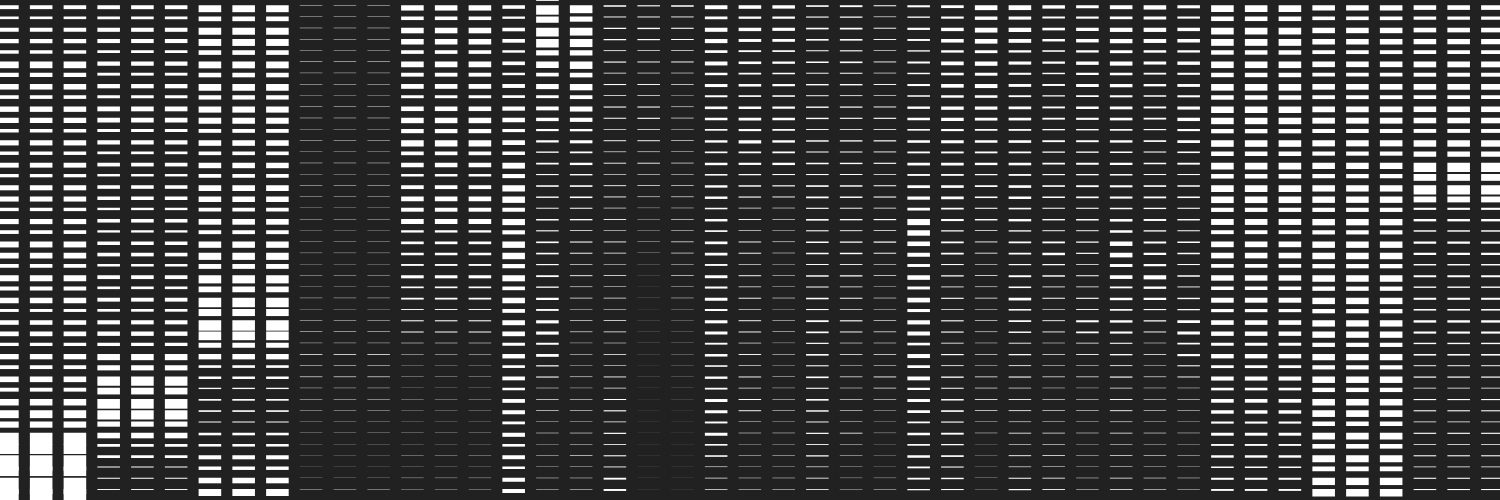
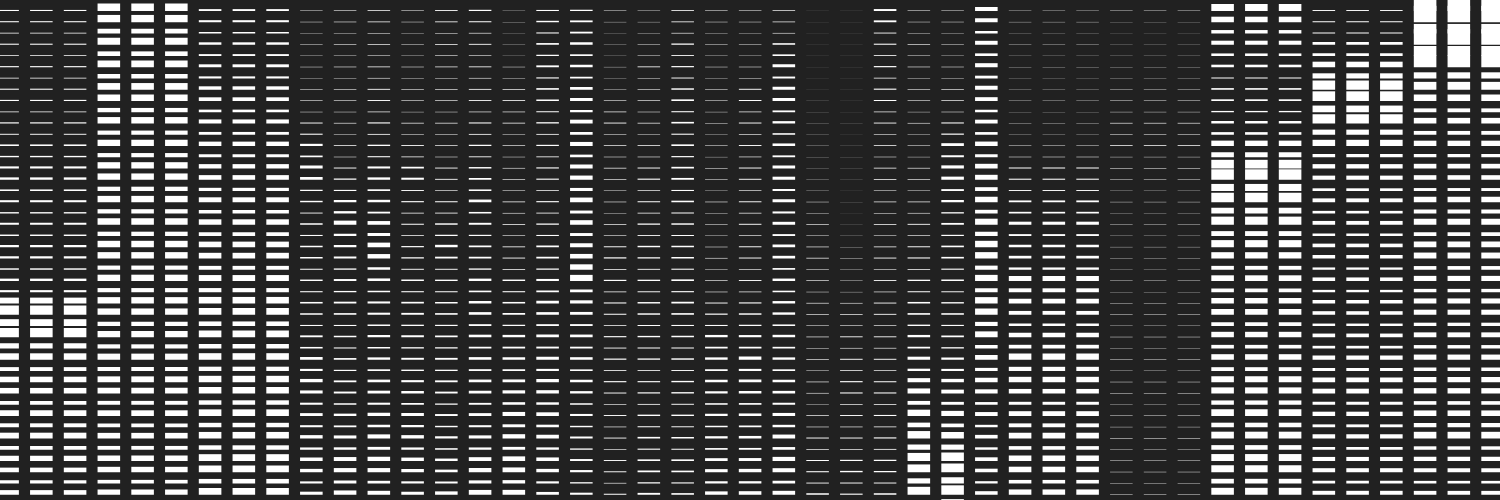
preparing PAOM post

Changed region(s): [[0.0, 0.0, 1.0, 1.0]]

diff --git a/_posts/2015-07-01-witches-coven-magazine-print-all-over-me.md b/_posts/2015-07-01-witches-coven-magazine-print-all-over-me.md
@@ -4,21 +4,6 @@ cat:        projects
 title:      "Collab: WITCHES / The Coven Magazine ✕ Print All Over Me"
 path:       witches-coven-magazine-print-all-over-me
 images:
-  - src:    post-02X_imgs/I01_01.png
-    class:  post-img
-    width:  750
-    height: 250
-    cap:    "Issue 01 / Image"
-  - src:    post-02X_imgs/I01_02.png
-    class:  post-img
-    width:  750
-    height: 250
-    cap:    "Issue 02 / Image"
-  - src:    post-02X_imgs/I01_03.png
-    class:  post-img
-    width:  750
-    height: 250
-    cap:    "Issue 03 / Image"
   - src:    post-02X_imgs/T02_01.png
     class:  post-img
     width:  750
@@ -34,28 +19,34 @@ images:
     width:  750
     height: 250
     cap:    "Issue 03 / Text"
+  - src:    post-02X_imgs/I01_03.png
+    class:  post-img
+    width:  750
+    height: 250
+    cap:    "Issue 03 / Image"
+  - src:    post-02X_imgs/I01_02.png
+    class:  post-img
+    width:  750
+    height: 250
+    cap:    "Issue 02 / Image"
+  - src:    post-02X_imgs/I01_01.png
+    class:  post-img
+    width:  750
+    height: 250
+    cap:    "Issue 01 / Image"
   - src:    post-02X_imgs/garments_01.png
     class:  post-img
     width:  750
     height: 250
-    cap:    "<a href=''>RGB-1 T-shirt</a>, <a href=''>RGB-3 Block top</a>, <a href=''>RGB-2 Duffle bag</a>, <a href=''>TXT-1 Backpack</a>, <a href=''>TXT-3 Raincoat</a>"
-  - src:    post-02X_imgs/garments_02.png
-    class:  post-img
-    width:  750
-    height: 250
+    cap:    "<a href=''>RGB-1 T-shirt</a>, <a href=''>RGB-3 Block top</a>"
 tags:
   - static
   - text
   - collaboration
 published:  false
 ---
-I worked with [WITCHES / The Coven Magazine](http://www.witchesofbushwick.com/) to create six data-driven patterns for a collaborative collection with [Print All Over Me](printallover.me). The patterns are driven by text and image data scraped from the first three issues of The Coven Magazine. View the full collection [here](printallover.me). Read more about the methodology behind each pattern below.
+A collaboration with [WITCHES / The Coven Magazine](http://www.witchesofbushwick.com/) to create six data-driven patterns for a collection with [Print All Over Me](printallover.me). Each one is generated using text and image data scraped from the first three issues of The Coven Magazine. View the full collection [here](printallover.me). 
 
-*Image*
+Patterns RGB-1, RGB-2, and RGB-3 map the normalized red, green, and blue pixel values of every image in each issue along a vertical continuum. Each column of cells encodes the percentage of pixels of a given channel as distributed across the 0-255 range.
 
-This pattern represents an analysis of the RGB color space of every image in an issue. By mapping the normalized red, green, and blue pixel values of each photograph along a vertical continuum, the pattern forms a spectral profile representing the color distribution of pixels across a range of possible values. Each vertical group of cells encodes the percentage of pixels of a given channel as distributed across the 0-255 range. 
-
-
-*Text*
-
-This pattern represents the relative frequency and position of every alphabetic character in an issue. Comprised of cells in horizontal groups of four, it maps local and global occurrences of each letter to the individual pages on which they appear, generating a linear textual blueprint that supplants linguistic referentiality. The background of each cell in each group encodes the relative frequency of a given letter in comparison to the number of times it appears throughout the whole issue. The position of the smaller, solid square in each cell marks the relative frequency of the letter in each quadrant of the page in comparison to its total appearances on that page. 
+Patterns TXT-1, TXT-2, and TXT-3 represent the relative frequency and position of the alphabetic characters in each issue. Comprised of cells in horizontal groups of four, each pattern maps local and global occurrences of every letter to the individual pages on which they appear, generating a linear textual blueprint that supplants linguistic referentiality. The background of each cell in each group encodes the relative frequency of a given letter in comparison to the number of times it appears throughout the whole issue. The position of the smaller, solid square in each cell marks the relative frequency of the letter in each quadrant of the page in comparison to its total appearances on that page. 
